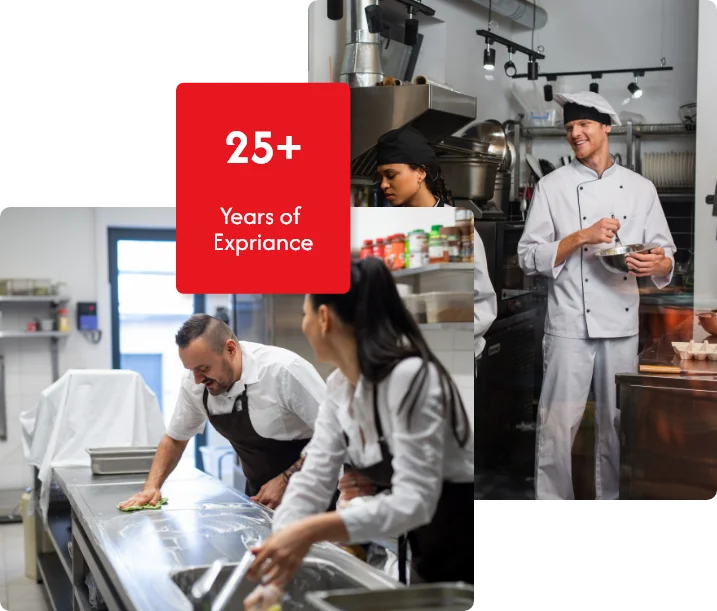
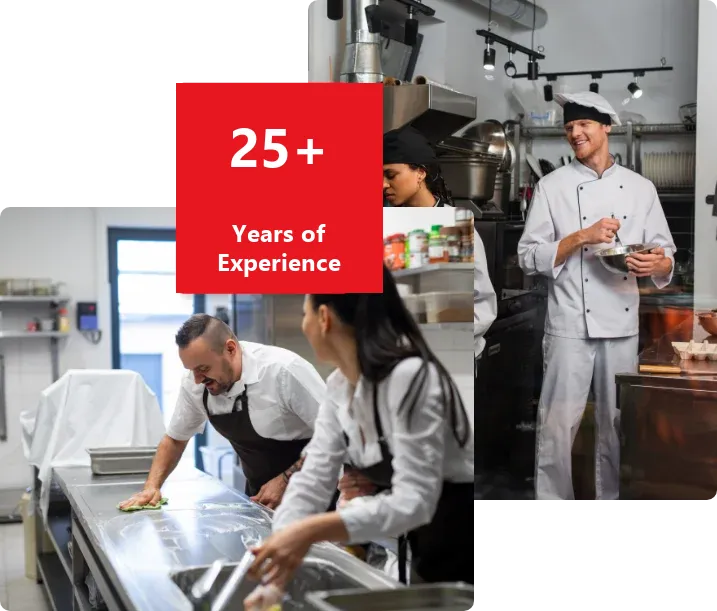
Fix sitewide spelling/grammar issues flagged by client QA
- Image-based typo on the About section ("25+ Years of Exprience" ->
  "Experience") baked into aboutkni.webp/aboutkni1.webp
- Minor grammar/wording fixes across the blog posts, launchpad page,
  and a logo alt-text capitalization

Claude-Session: https://claude.ai/code/session_01YDjY8S85tdhWP8hkUsbExd

Changed region(s): [[0.2762, 0.1244, 0.5523, 0.4975]]

diff --git a/src/app/blog/posts.ts b/src/app/blog/posts.ts
@@ -111,7 +111,7 @@ export const POSTS: BlogPost[] = [
       <p>For kitchens with lots of high-value refrigeration and cooking equipment, a comprehensive plan usually pays for itself. For newer kitchens still under warranty, a non-comprehensive plan can be enough to start.</p>
 
       <h2>Why every kitchen needs an AMC</h2>
-      <p>Consider what one failure really costs. A refrigerator that dies overnight can spoil thousands of rupees of stock. A burner that fails during a Friday rush means refused orders, refunds and angry reviews. An AMC <strong>reduces downtime</strong>, prevents food-safety violations and removes the stress of unplanned repairs.</p>
+      <p>Consider what one failure really costs. A refrigerator that dies overnight can spoil thousands of rupees' worth of stock. A burner that fails during a Friday rush means refused orders, refunds and angry reviews. An AMC <strong>reduces downtime</strong>, prevents food-safety violations and removes the stress of unplanned repairs.</p>
       <p>There's also a longevity benefit: well-maintained equipment lasts years longer, delaying the huge cost of replacement. And there's a compliance angle — health and fire inspections expect documented, regular maintenance.</p>
 
       <h2>The hidden cost of skipping maintenance</h2>
@@ -326,7 +326,7 @@ export const POSTS: BlogPost[] = [
       <p>India's climate puts extra strain on kitchen equipment, so adjust your routine through the year. During the monsoon, humidity accelerates rust and can affect electrical safety — check connections and keep equipment dry. In peak summer, refrigeration and air-conditioning work much harder, so condenser cleaning and ventilation checks become even more important. A little seasonal awareness prevents the breakdowns that always seem to strike during the busiest months.</p>
 
       <h2>Warning signs your equipment needs attention</h2>
-      <p>Equipment usually warns you before it fails completely. Train your team to flag these red flags early:</p>
+      <p>Equipment usually warns you before it fails completely. Train your team to spot these red flags early:</p>
       <ul>
         <li>Unusual noises, vibration or rattling from motors and compressors.</li>
         <li>Refrigeration that struggles to hold temperature, or frost building up.</li>
@@ -582,7 +582,7 @@ export const POSTS: BlogPost[] = [
       <p><strong>MEP (Mechanical, Electrical and Plumbing)</strong> work is the invisible backbone of every commercial kitchen. Customers never see it, but it determines whether your kitchen is safe, efficient and legal. Get MEP right and everything just works; get it wrong and you face breakdowns, failed inspections, safety hazards and costly rework. Here's what every restaurant owner should understand.</p>
 
       <h2>What does MEP actually include?</h2>
-      <p>MEP covers three connected systems: <strong>mechanical</strong> (ventilation and exhaust), <strong>electrical</strong> (power and lighting) and <strong>plumbing</strong> (water, drainage and gas). In a commercial kitchen these systems carry heavy loads and must be designed specifically for the job — ordinary commercial wiring or plumbing simply won't cope.</p>
+      <p>MEP covers three connected systems: <strong>mechanical</strong> (ventilation and exhaust), <strong>electrical</strong> (power and lighting) and <strong>plumbing</strong> (water, drainage and gas). In a commercial kitchen these systems carry heavy loads and must be designed specifically for the job — ordinary wiring or plumbing simply won't cope.</p>
 
       <h2>Mechanical: ventilation &amp; exhaust</h2>
       <p>Commercial kitchens generate huge amounts of heat, smoke, steam and grease. A properly designed mechanical system removes all of it while keeping the kitchen comfortable. Key elements include:</p>
@@ -659,7 +659,7 @@ export const POSTS: BlogPost[] = [
       <p>Your biggest savings start at the point of purchase. Star-rated refrigeration, induction cooking and well-insulated ovens use far less power than older or cheaper alternatives. Induction, in particular, transfers most of its heat directly to the pan — saving energy <em>and</em> keeping your kitchen cooler. When you next replace equipment, treat efficiency as a core buying criterion, not an afterthought. Our <a href="/blog/how-to-choose-commercial-kitchen-equipment">equipment buying guide</a> covers this in detail.</p>
 
       <h2>2. Maintain equipment regularly</h2>
-      <p>Dirty condenser coils, worn door gaskets and un-calibrated thermostats all force equipment to work harder and burn more energy to do the same job. Regular cleaning and a scheduled <a href="/blog/what-is-commercial-kitchen-amc">AMC</a> keep everything running at peak efficiency — often paying for itself in energy savings alone. A simple coil cleaning can noticeably cut a refrigerator's power draw.</p>
+      <p>Dirty condenser coils, worn door gaskets and uncalibrated thermostats all force equipment to work harder and burn more energy to do the same job. Regular cleaning and a scheduled <a href="/blog/what-is-commercial-kitchen-amc">AMC</a> keep everything running at peak efficiency — often paying for itself in energy savings alone. A simple coil cleaning can noticeably cut a refrigerator's power draw.</p>
 
       <h2>3. Build smart operating habits</h2>
       <p>The biggest free savings come from how your team uses equipment day to day:</p>

diff --git a/src/app/launchpad/page.tsx b/src/app/launchpad/page.tsx
@@ -269,7 +269,7 @@ export default function LaunchpadPage() {
                   </div>
                   <div>
                     <p className="text-4xl md:text-5xl font-bold text-white counter-value" data-target="10">0</p>
-                    <p className="text-gray-200 text-lg mt-2">Years Experience</p>
+                    <p className="text-gray-200 text-lg mt-2">Years of Experience</p>
                   </div>
                 </div>
               </div>
@@ -517,7 +517,7 @@ export default function LaunchpadPage() {
                     KNI is a specialized platform bridging the gap between commercial
                     kitchen owners and service professionals, offering streamlined
                     solutions for service bookings, equipment needs, and operational
-                    challenges ensuring efficiency and reliability across the industry.
+                    challenges, ensuring efficiency and reliability across the industry.
                   </p>
                 </div>
                 <div className="border-t-2 border-[#7F7C7D] max-w-6xl mx-auto mb-6"></div>

diff --git a/src/app/_components/HowKni.tsx b/src/app/_components/HowKni.tsx
@@ -52,7 +52,7 @@ export default function HowKni() {
               <div className="features center-logo">
                 <div className="animationview"></div>
                 <div className="img_view">
-                  <img loading="lazy" src="/landing/assests/Kni-red-logo.webp" alt="kni logo" />
+                  <img loading="lazy" src="/landing/assests/Kni-red-logo.webp" alt="KNI logo" />
                 </div>
               </div>
 
